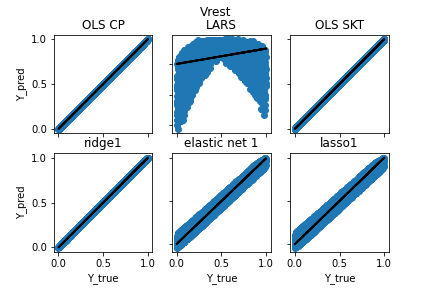
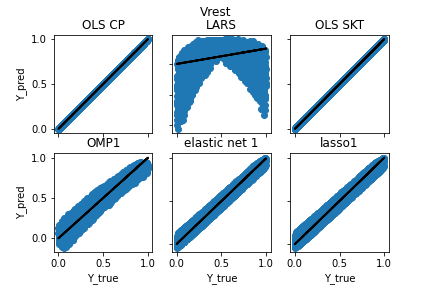
-

Changed region(s): [[0.0602, 0.5312, 0.3611, 0.875], [0.1806, 0.4688, 0.3009, 0.5312], [0.0602, 0.6562, 0.1204, 0.7188]]

diff --git a/surrogatefromfile.py b/surrogatefromfile.py
@@ -46,7 +46,7 @@ qoi={
      
 }
 
-folder="datasets/xnn/"+str(Ns)+"/"
+folder="datasets/nn/"+str(Ns)+"/"
 
 try:
     os.mkdir(folder+"results/")
@@ -87,7 +87,7 @@ f = open(folder+'/results/numeric.csv', 'w',newline='')
 # create the csv writer
 writer = csv.writer(f)
 
-row=['QOI',	'Method', 'Degree','Val. error',' LOOERROR','Max Sobol Error','Mean Sobol Error','Ns','Timeselected','Timemax','Timeselected','Timemax']
+row=['QOI',	'Method', 'Degree','Val. error',' LOOERROR','Max Sobol Error','Mean Sobol Error','Ns','Timeselected','Timemax','Timeselected G','TimemaxG','Time T']
 writer.writerow(row)
 
 #Load datasets
@@ -141,10 +141,11 @@ models = {
      "OLS CP": None,
    
      "LARS": lm.Lars(**kws,eps=eps),
-   # "OMP"+str(alpha):
-    #     lm.OrthogonalMatchingPursuit(n_nonzero_coefs=3, **kws),
     "OLS SKT": lm.LinearRegression(**kws),
-    "ridge"+str(alpha): lm.Ridge(alpha=alpha, **kws),
+    #"ridge"+str(alpha): lm.Ridge(alpha=alpha, **kws),
+    "OMP"+str(alpha):
+         lm.OrthogonalMatchingPursuit(n_nonzero_coefs=3, **kws),
+    
     # "bayesian ridge": lm.BayesianRidge(**kws),
     "elastic net "+str(alpha): lm.ElasticNet(alpha=alpha, **kws),
     "lasso"+str(alpha): lm.Lasso(alpha=alpha, **kws),
@@ -190,12 +191,14 @@ for qlabel,dataset in Y.items():
     fig.suptitle(qlabel)
     for label, model in models.items():
         
+        
         print('\n--------------',"\n")
         print("Beggining ", label)
         loos= np.zeros((pmax-pmin+1))
         gF= np.zeros((pmax-pmin+1))
         timeL= np.zeros((pmax-pmin+1))
         
+        startT=timeit.default_timer()
         pols=[]
         for P in list(range(pmin,pmax+1,1)):             
             print('\n')
@@ -220,7 +223,8 @@ for qlabel,dataset in Y.items():
             
             print('\n')
         
-        
+        stopT = timeit.default_timer()
+        TT=stopT-startT
         #Choose best fitted poly exp in degree range->lowest loo error
         degreeIdx=loos.argmin()
         loo=loos[degreeIdx]
@@ -248,7 +252,7 @@ for qlabel,dataset in Y.items():
         time=stop-start
         print('Time to Validate: ',time)   
         row=[qlabel,label,degreeIdx+pmin,              
-        f"{nErr:.2E}",f"{loo:.2E}",maxE,avgE,Ns,timeL[degreeIdx],timeL[timeL.argmax()],gF[degreeIdx],gF[gF.argmax()]]
+        f"{nErr:.2E}",f"{loo:.2E}",maxE,avgE,Ns,timeL[degreeIdx],timeL[timeL.argmax()],gF[degreeIdx],gF[gF.argmax()],TT]
         writer.writerow(row)       
         print('--------------',"\n")
         

diff --git a/utils.py b/utils.py
@@ -97,12 +97,12 @@ def looT(samps,y,idx,deltas,base,model):
 def calcula_deltas(y,poly_exp,samps,model,ii,ifn):
  nsamp = np.shape(y)[0] 
  blocoDeltas=np.zeros(ifn-ii + 1)   
-
+ indices = np.linspace(0,nsamp-1,nsamp, dtype=np.int32)
  for i in range(ii,ifn):
-        indices = np.linspace(0,nsamp-1,nsamp, dtype=np.int32)
-        indices = np.delete(indices,i)
-        subs_samples = samps[indices,:].copy()
-        subs_y =[ y[i] for i in (indices)]
+        
+        indicesa = np.delete(indices,i)
+        subs_samples = samps[indicesa,:].copy()
+        subs_y =[ y[i] for i in (indicesa)]
         subs_poly = cp.fit_regression (poly_exp,subs_samples.T,subs_y,model=model,retall=False) 
         yhat = cp.call(subs_poly, samps[i,:])
         blocoDeltas[i-ii] = ((y[i] - yhat))**2
